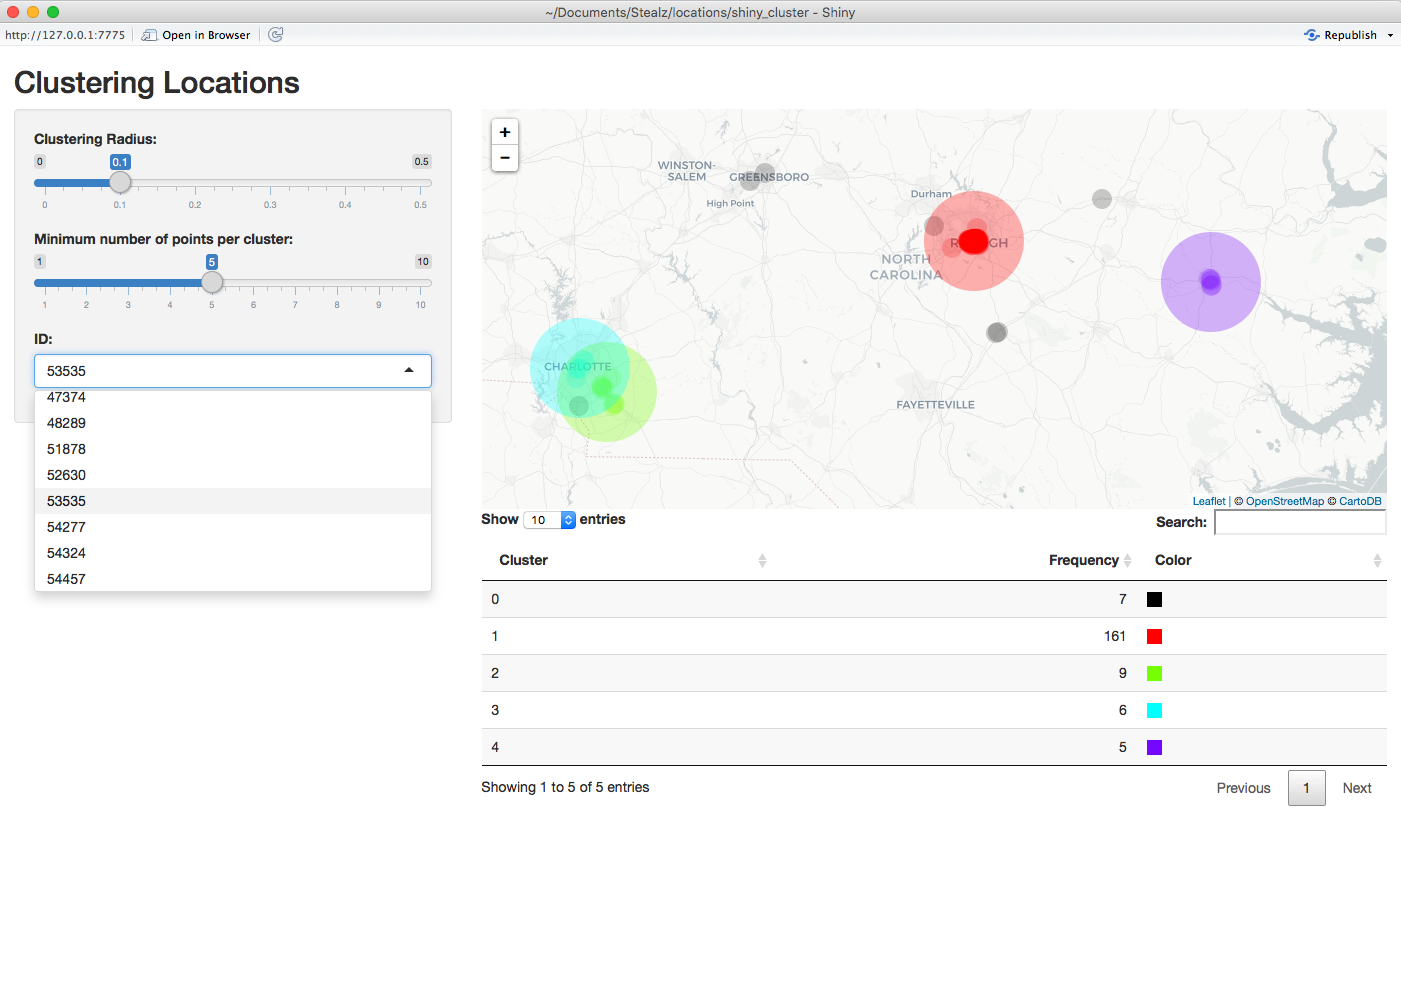
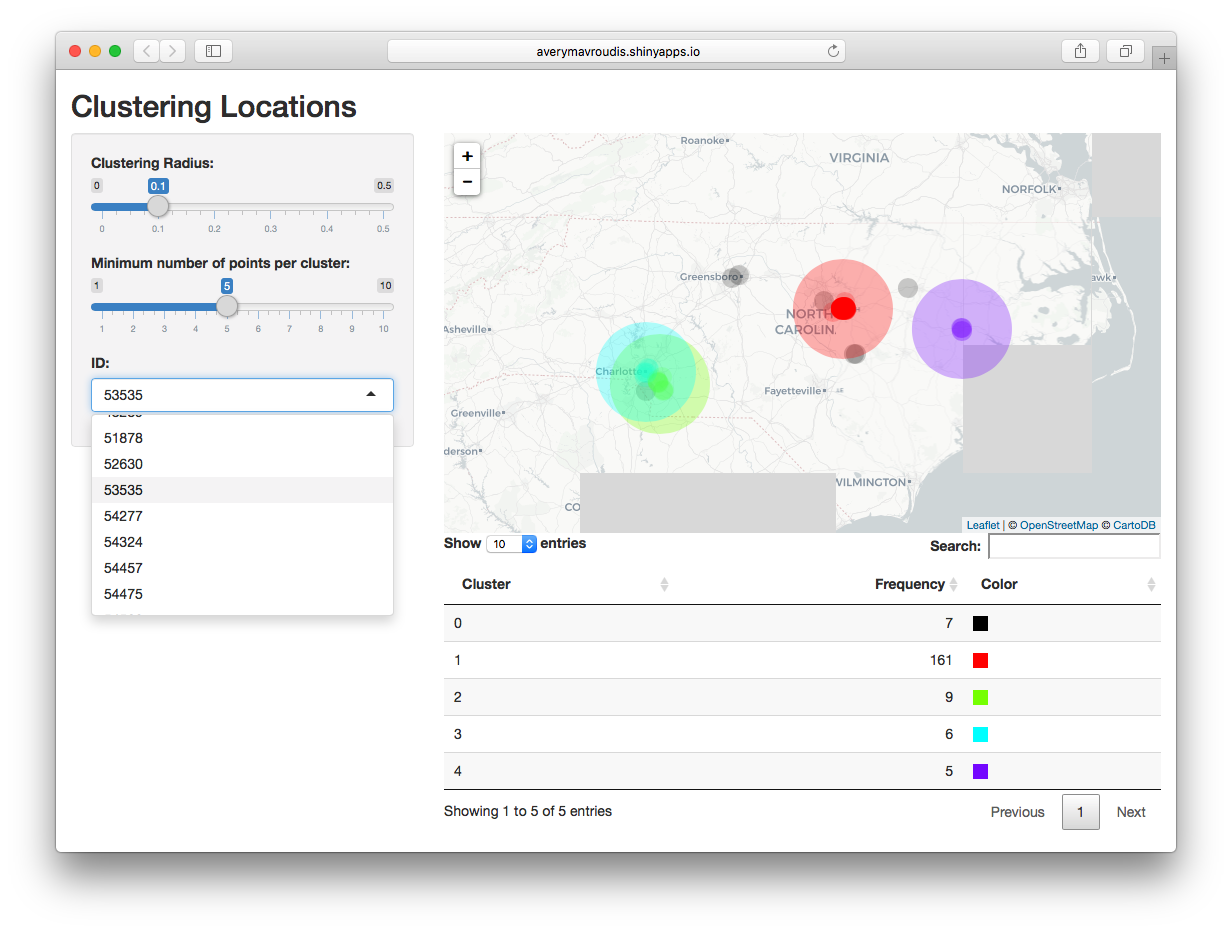
Updated screenshot

diff --git a/README.md b/README.md
@@ -1,7 +1,5 @@
 # Location Clustering
- 
- This **README** will explain the variety of tools and methods of the `locations` repository by **averymavroudis**.
-
+![Shiny_preview.png](./Shiny_preview.png)
 ## The Problem
 Suppose you have coordinate data of many different geo located events, objects, people, etc. that are grouped by an ID. We'd like to predict the region where the next event is most likely to happen or determine the centrality of events by frequency. 
 
@@ -201,7 +199,6 @@ This shiny app could either be used on your browser or within a new window in R.
 
 Once you launch the app, you will be able to choose an ID from a drop down menu.
 
-![Shiny_preview.png](./Shiny_preview.png)
 On the right side, there will be a map with all of their location points and a frequency table with a color legend. Black will always be the outlier points while the color points accompany different clusters. 
 
 On the left side, the adjustable sliders allow you to increase and decrease the radius of which the clusters are determined and the number of points needed to be considered a cluster (default: Clustering Radius = 0.1, Min Points = 5, ID = first ID in CSV)
